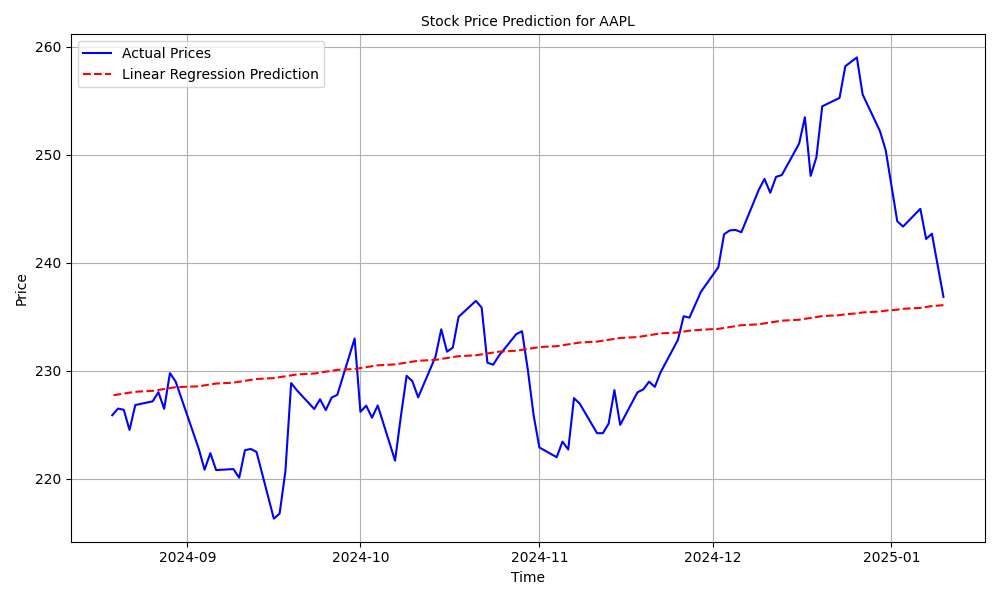
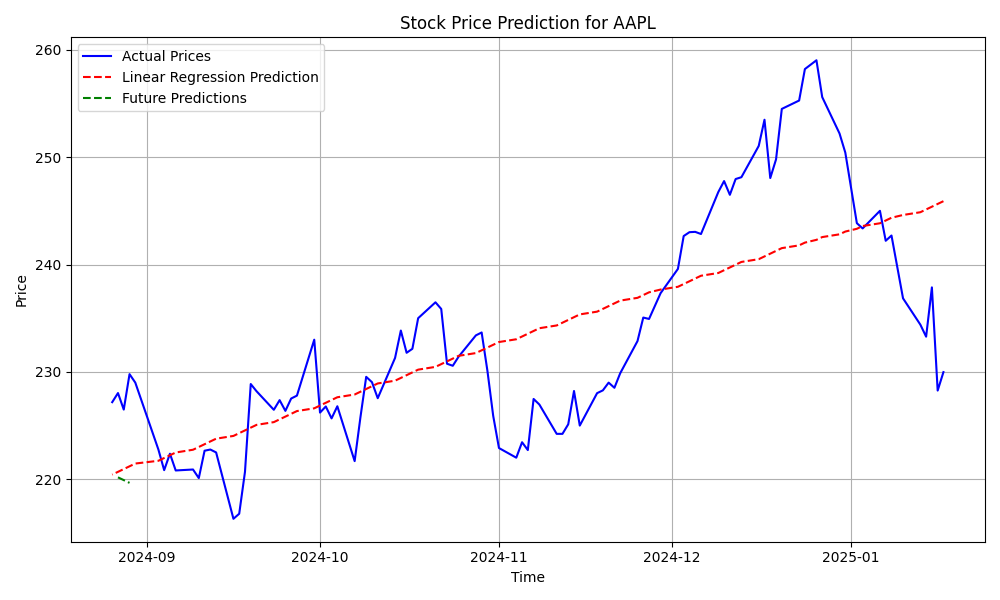
18-01-24

diff --git a/stock_prediction/predictor.py b/stock_prediction/predictor.py
@@ -1,15 +1,20 @@
-# Stock prediction (Linear regression)
+# Stock prediction using Linear Regression
 # Sklearn https://scikit-learn.org/stable/user_guide.html
 # API https://www.alphavantage.co/documentation/
 # Matplotlib https://matplotlib.org/stable/users/index.html
 
-import matplotlib.pyplot as plt, numpy as np, pandas as pd, requests
+import matplotlib.pyplot as plt
+import numpy as np
+import pandas as pd
+import requests
 from sklearn.linear_model import LinearRegression
-from sklearn.model_selection import train_test_split
+from sklearn.preprocessing import MinMaxScaler
+from sklearn.metrics import mean_squared_error, r2_score
 
 # Function to fetch stock data from Alpha Vantage API
-def fetch_stock_data(stock_code, api_key):
-    url = f"https://www.alphavantage.co/query?function=TIME_SERIES_DAILY&outputsize=compact&symbol={stock_code}&apikey={api_key}"
+def fetch_stock_data(stock_code):
+    api_key = "EL1WRWLWB9B05AS1"  # Replace with your own API key
+    url = f"https://www.alphavantage.co/query?function=TIME_SERIES_DAILY&outputsize=compact&symbol={stock_code}&apikey={api_key}&outputsize=full"
     response = requests.get(url)
     data = response.json()
     if "Time Series (Daily)" in data:
@@ -21,31 +26,52 @@ def fetch_stock_data(stock_code, api_key):
 # Prepare data
 def prepare_data(time_series):
     dates = list(time_series.keys())
-    prices = [float(v["4. close"]) for v in time_series.values()]
+    prices = [float(v["4. close": "Close"]) for v in time_series.values()]
     horizontal = pd.to_datetime(dates)
     vertical = np.array(prices)
     return horizontal, vertical
 
 # Main function
 def main():
-    api_key = "EL1WRWLWB9B05AS1"
-    stock_code = input("Please enter the stock code: ")
-
-    # Fetch stock data
-    time_series = fetch_stock_data(stock_code.strip().upper(), api_key)
+    stock_code = input("Please enter the stock code: ").strip().upper()
+    time_series = fetch_stock_data(stock_code)
 
     # Prepare data
     X_horizontal, y_vertical = prepare_data(time_series)
 
-    # Train the data
-    X_train, X_test, y_train, y_test = train_test_split(X_horizontal, y_vertical, test_size=0.25, random_state=42)
+    # Reshape the data for the model
+    X = np.arange(len(X_horizontal)).reshape(-1, 1)  # Use the index as the feature
+    y = y_vertical.reshape(-1, 1)
 
-    # Perform linear regression
-    reg = LinearRegression().fit(np.arange(len(X_train)).reshape(-1, 1), y_train)
-    # reg.score(X_horizontal, y_vertical)f
+    # Scale the data
+    scaler_X = MinMaxScaler()
+    scaler_y = MinMaxScaler()
+    X_scaled = scaler_X.fit_transform(X)
+    y_scaled = scaler_y.fit_transform(y)
 
-    # Predict
-    y_pred = reg.predict(np.arange(len(X_horizontal)).reshape(-1, 1))
+    # Fit the model
+    model = LinearRegression()
+    model.fit(X_scaled, y_scaled)
+
+    # Predict on the original data
+    y_pred_scaled = model.predict(X_scaled)
+    y_pred = scaler_y.inverse_transform(y_pred_scaled)
+
+    # Evaluate the model
+    mse = mean_squared_error(y, y_pred)
+    r2 = r2_score(y, y_pred)
+    print(f"均方誤差 (MSE): {mse}")
+    print(f"決定係數 (R²): {r2}")
+
+    # Predict future months (Not working)
+    future_months = 3
+    future_x = np.arange(len(X_horizontal), len(X_horizontal) + future_months).reshape(-1, 1)
+    future_x_scaled = scaler_X.transform(future_x)
+    future_y_pred_scaled = model.predict(future_x_scaled)
+    future_y_pred = scaler_y.inverse_transform(future_y_pred_scaled)
+
+    # Combine actual and predicted data
+    X_future = pd.date_range(start=X_horizontal[-1] + pd.Timedelta(days=1), periods=future_months, freq='B')  # Business days
 
     # Plot graph
     plt.figure(figsize=(10, 6), facecolor="white", layout="constrained")
@@ -53,6 +79,8 @@ def main():
     plt.plot(X_horizontal, y_vertical, color="blue", label="Actual Prices", linestyle="-")
     # Dotted line for prediction
     plt.plot(X_horizontal, y_pred, color="red", label="Linear Regression Prediction", linestyle="--")
+    # Future predictions
+    plt.plot(X_future, future_y_pred, color="green", label="Future Predictions", linestyle="--")
     plt.title(f"Stock Price Prediction for {stock_code}")
     plt.xlabel("Time")
     plt.ylabel("Price")
@@ -62,7 +90,7 @@ def main():
     plt.legend()
 
     # Export and view
-    print("Do you want to export the chart as a png or view it? [0 = View it, 1 = Export as png] \n(Please mind that the viewing option won't work if you're using running this code in a web browser)")
+    print("Do you want to export the chart as a png or view it? [0 = View it, 1 = Export as png]")
     choice = int(input("Please input your choice: "))
     if choice == 0:
         plt.show()

diff --git a/stock_prediction/Note09.py b/stock_prediction/Note09.py
@@ -1,0 +1,92 @@
+# SKlearn
+
+from sklearn.linear_model import LinearRegression
+from sklearn.preprocessing import MinMaxScaler, PolynomialFeatures
+from sklearn.metrics import mean_squared_error, r2_score
+import numpy as np
+
+# 1. 初始化資料
+# 建立範例資料：X 為輸入特徵，y 為目標值
+X = np.array([[1], [2], [3], [4], [5]])  # 單一特徵
+y = np.array([1.5, 3.5, 6.0, 8.0, 11.5])  # 目標值
+
+print("1. 原始資料：")
+print("X =", X.flatten())
+print("y =", y)
+
+# 2. 線性迴歸：使用 sklearn.linear_model.LinearRegression
+# 初始化線性迴歸模型
+model = LinearRegression()
+
+# 訓練模型：使用 fit() 方法
+model.fit(X, y)
+
+# 預測結果：使用 predict() 方法
+y_pred = model.predict(X)
+
+# 輸出模型參數
+print("\n2. 線性迴歸模型：")
+print(f"斜率 (係數): {model.coef_[0]}")
+print(f"截距: {model.intercept_}")
+
+# 評估模型：使用 mean_squared_error 和 r2_score
+mse = mean_squared_error(y, y_pred)
+r2 = r2_score(y, y_pred)
+print(f"均方誤差 (MSE): {mse}")
+print(f"決定係數 (R²): {r2}")
+
+# 3. 資料縮放：使用 sklearn.preprocessing.MinMaxScaler
+# 初始化 MinMaxScaler，將資料縮放到 [0, 1] 區間
+scaler = MinMaxScaler()
+
+# 對 X 進行縮放
+X_scaled = scaler.fit_transform(X)
+
+print("\n3. 資料縮放（MinMaxScaler）：")
+print("縮放後的 X =", X_scaled.flatten())
+
+# 4. 多項式特徵生成：使用 sklearn.preprocessing.PolynomialFeatures
+# 初始化 PolynomialFeatures，生成二次多項式特徵
+poly = PolynomialFeatures(degree=2, include_bias=False)
+
+# 將 X_scaled 轉換為多項式特徵
+X_poly = poly.fit_transform(X_scaled)
+
+print("\n4. 多項式特徵生成：")
+print("多項式特徵 (degree=2):")
+print(X_poly)
+
+# 5. 使用多項式特徵進行迴歸
+# 初始化並訓練線性迴歸模型（使用多項式特徵）
+model_poly = LinearRegression()
+model_poly.fit(X_poly, y)
+
+# 預測結果
+y_poly_pred = model_poly.predict(X_poly)
+
+# 輸出多項式迴歸模型參數
+print("\n5. 多項式迴歸模型：")
+print(f"係數: {model_poly.coef_}")
+print(f"截距: {model_poly.intercept_}")
+
+# 評估多項式模型
+mse_poly = mean_squared_error(y, y_poly_pred)
+r2_poly = r2_score(y, y_poly_pred)
+print(f"多項式模型 - 均方誤差 (MSE): {mse_poly}")
+print(f"多項式模型 - 決定係數 (R²): {r2_poly}")
+
+# 6. 模型比較
+print("\n6. 模型比較：")
+print(f"線性模型 - MSE: {mse}, R²: {r2}")
+print(f"多項式模型 - MSE: {mse_poly}, R²: {r2_poly}")
+
+# 7. 預測新資料的例子
+new_X = np.array([[6]])  # 新的輸入特徵
+new_X_scaled = scaler.transform(new_X)  # 縮放新資料
+new_X_poly = poly.transform(new_X_scaled)  # 生成多項式特徵
+
+# 預測
+new_y_pred = model_poly.predict(new_X_poly)
+print("\n7. 預測新資料：")
+print(f"輸入特徵: {new_X.flatten()}")
+print(f"預測結果: {new_y_pred[0]}")
